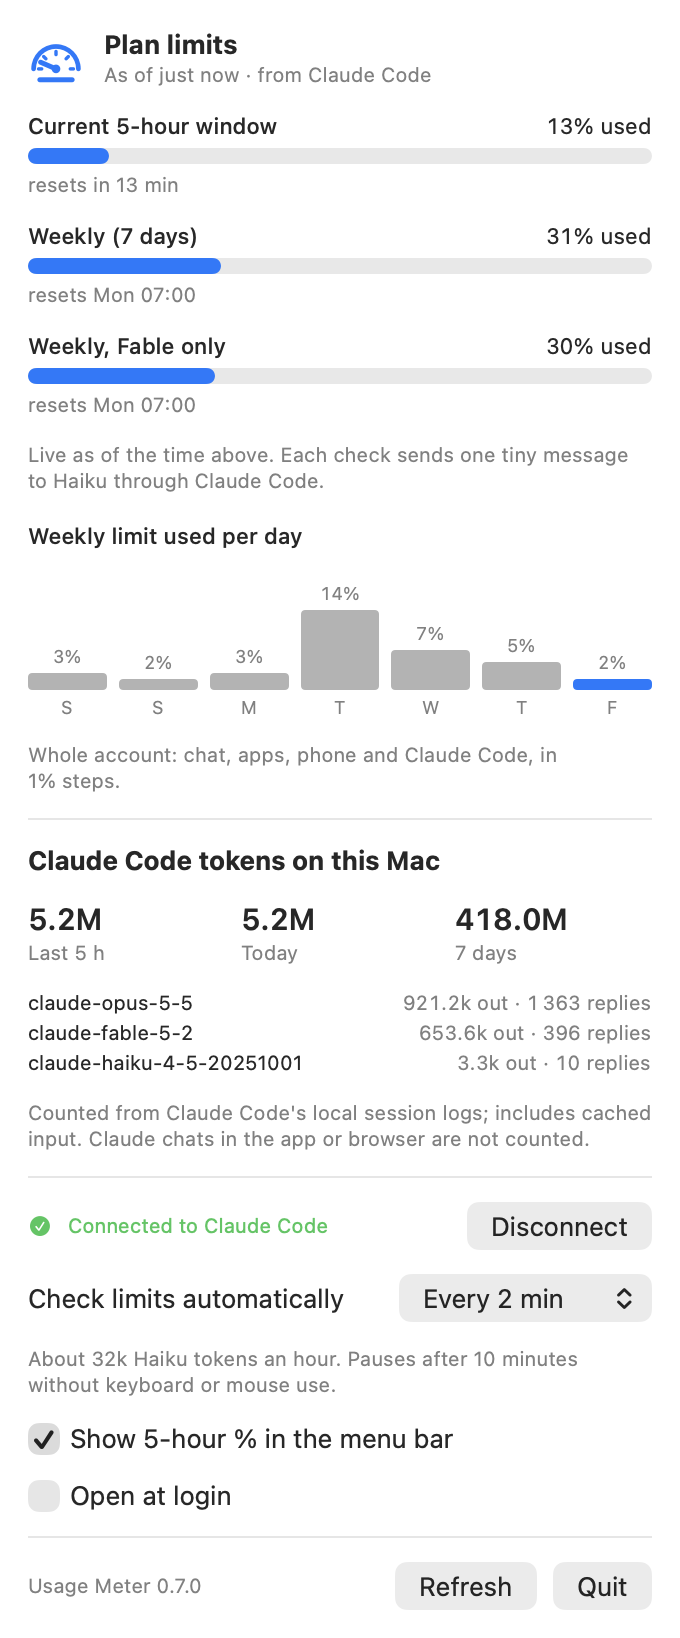
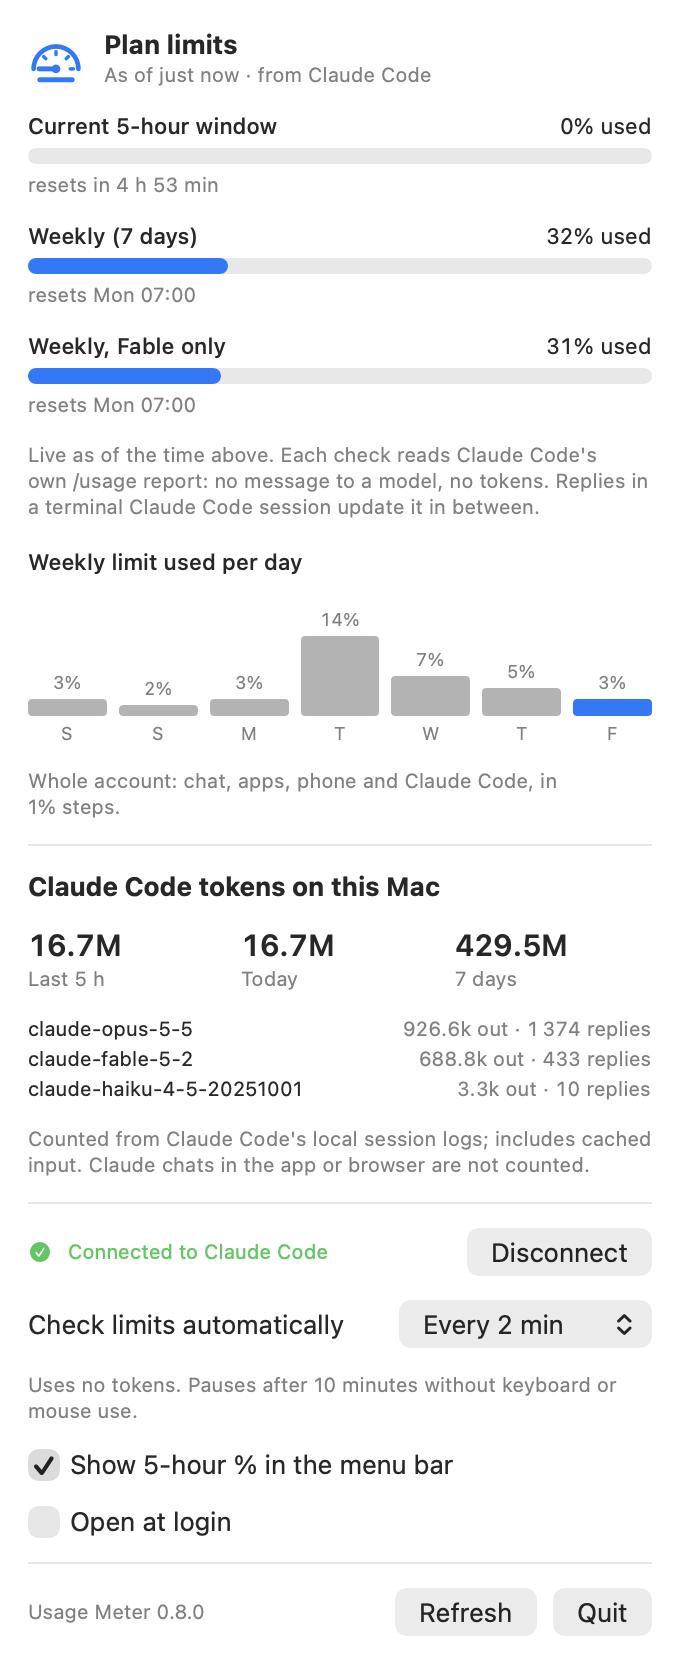
0.8.0: checks read Claude Code's /usage report instead of sending a Haiku message
Every check (Refresh and automatic) now runs the local command
`claude -p "/usage"`: no message to a model, 0 tokens, about 1.5 s.
It gives the 5-hour, weekly and model-specific figures in one call.
The status line path is unchanged, so terminal Claude Code replies still
update the numbers between checks.

diff --git a/App/Limits.swift b/App/Limits.swift
@@ -100,78 +100,75 @@ enum Limits {
         return fm.isExecutableFile(atPath: p) ? p : nil
     }
 
-    /// Sends one tiny message to the smallest model through Claude Code (your own subscription, no tools,
-    /// no MCP, no settings, nothing saved) and reads the `rate_limit_event` Claude Code prints in
-    /// stream-json mode. Costs about 1,000 tokens of your 5-hour allowance.
+    /// Asks Claude Code for its own `/usage` report (your own subscription, no settings, no MCP, nothing
+    /// saved). `/usage` is a local command: no message goes to a model and it uses no tokens.
     static func fetchLive() throws -> LimitSnapshot {
         guard let claude = claudePath() else { throw Problem("Claude Code (the claude command) was not found.") }
         let dir = FileManager.default.temporaryDirectory.appendingPathComponent("usage-meter-check")
         try? FileManager.default.createDirectory(at: dir, withIntermediateDirectories: true)
-        let prompt = "Reply with the single word ok."
-        let r = runProcess(claude, ["-p", prompt, "--model", "haiku", "--output-format", "stream-json", "--verbose",
-                                    "--tools", "", "--strict-mcp-config", "--setting-sources", "",
-                                    "--no-session-persistence", "--system-prompt", prompt],
-                           cwd: dir, timeout: 90)
-        var five: Window?, seven: Window?
-        for line in r.out.split(separator: "\n") where line.contains("rate_limit_event") {
-            guard let o = try? JSONSerialization.jsonObject(with: Data(line.utf8)) as? [String: Any],
-                  let info = o["rate_limit_info"] as? [String: Any],
-                  let wins = info["unifiedWindows"] as? [String: Any] else { continue }
-            func w(_ k: String) -> Window? {
-                guard let x = wins[k] as? [String: Any],
-                      let u = (x["utilization"] as? NSNumber)?.doubleValue,
-                      let t = (x["resetsAt"] as? NSNumber)?.doubleValue else { return nil }
-                return Window(used_percentage: u * 100, resets_at: t)
-            }
-            five = w("five_hour") ?? five
-            seven = w("seven_day") ?? seven
-        }
-        guard five != nil || seven != nil else {
-            if r.timedOut { throw Problem("Claude Code did not answer within 90 seconds.") }
-            if r.out.contains("\"is_error\":true") || r.code != 0 {
+        let r = runProcess(claude, ["-p", "/usage", "--output-format", "json", "--strict-mcp-config",
+                                    "--setting-sources", "", "--no-session-persistence"], cwd: dir, timeout: 60)
+        let o = (try? JSONSerialization.jsonObject(with: Data(r.out.utf8))) as? [String: Any]
+        let text = o?["result"] as? String ?? ""
+        // Exact reset times from the last report (the status line gives them to the second) to snap to.
+        let now = Date(), prev = load()
+        func known(_ w: Window?) -> Double? { w.flatMap { $0.resetDate > now ? $0.resets_at : nil } }
+        let u = parseUsage(text, now: now, fiveReset: known(prev?.five_hour), weekReset: known(prev?.seven_day))
+        guard o?["is_error"] as? Bool != true, u.five != nil || u.seven != nil else {
+            if r.timedOut { throw Problem("Claude Code did not answer within 60 seconds.") }
+            if o?["is_error"] as? Bool == true || r.code != 0 {
                 let hint = r.err.split(separator: "\n").last.map(String.init) ?? "exit code \(r.code)"
                 throw Problem("Claude Code failed: \(hint)")
             }
             throw Problem("Claude Code answered but reported no plan limits (API-key login, or a changed format).")
         }
-        return store(five: five, seven: seven, models: fetchModelWeeks(claude, cwd: dir, weekReset: seven?.resets_at),
-                     asOf: Date())
+        return store(five: u.five, seven: u.seven, models: u.models, asOf: now)
     }
 
-    // MARK: model-specific weekly limits (Fable) from `/usage`
+    // MARK: reading the `/usage` text
 
-    /// The `rate_limit_event` above carries no model-specific window, so these come from Claude Code's own
-    /// `/usage` command: a local command, no message to any model, 0 tokens. nil = the call failed
-    /// (keep what is stored); an empty list = it worked and the plan has no model-specific limit.
-    static func fetchModelWeeks(_ claude: String, cwd: URL, weekReset: Double?) -> [ModelWindow]? {
-        let r = runProcess(claude, ["-p", "/usage", "--output-format", "json", "--strict-mcp-config",
-                                    "--setting-sources", "", "--no-session-persistence"], cwd: cwd, timeout: 30)
-        guard let o = try? JSONSerialization.jsonObject(with: Data(r.out.utf8)) as? [String: Any],
-              o["is_error"] as? Bool != true, let text = o["result"] as? String,
-              // Only trust "no model rows" when the text is the usage report we know.
-              text.contains("Current week") else { return nil }
-        return parseModelWeeks(text, now: Date(), weekReset: weekReset)
-    }
+    struct UsageReport { var five: Window?; var seven: Window?; var models: [ModelWindow] = [] }
 
-    /// Reads lines like `Current week (Fable): 29% used · resets Nov 23 at 6:59am (Europe/Rome)`.
-    /// "all models" is the ordinary weekly limit and is skipped. The text is not a documented format.
-    /// `/usage` prints the reset a minute early (6:59 for 7:00), so a reset within two minutes of the
-    /// weekly one is taken to be the weekly one. A line with no readable reset uses the weekly reset;
-    /// with neither, the line is dropped rather than given a made-up time.
-    static func parseModelWeeks(_ text: String, now: Date, weekReset: Double?) -> [ModelWindow] {
+    /// Reads these lines (the text is not a documented format):
+    ///   `Current session: 11% used · resets Nov 20 at 10:49am (Europe/Rome)`   → 5-hour window
+    ///   `Current week (all models): 31% used · resets Nov 23 at 6:59am (…)`     → weekly limit
+    ///   `Current week (Fable): 29% used · resets Nov 23 at 6:59am (…)`          → a model-specific weekly limit
+    /// `/usage` prints a reset only to the minute and sometimes a minute early (6:59 for 7:00), so a known exact
+    /// reset (`fiveReset`, `weekReset`, from an earlier report) within two minutes of the printed one is used
+    /// instead. A line with no readable reset uses the known one; a model line uses the weekly one. With
+    /// nothing to go on the line is dropped rather than given a made-up time, except a session at 0 %,
+    /// which is a window that is not running.
+    static func parseUsage(_ text: String, now: Date, fiveReset: Double?, weekReset: Double?) -> UsageReport {
         let line = try! NSRegularExpression(
-            pattern: #"^\s*Current week \(([^)]+)\):\s*(\d+(?:\.\d+)?)\s*% used(?:\s*·\s*resets\s+(.+?))?\s*$"#,
+            pattern: #"^\s*Current (session|week)(?: \(([^)]+)\))?:\s*(\d+(?:\.\d+)?)\s*% used(?:\s*·\s*resets\s+(.+?))?\s*$"#,
             options: [.anchorsMatchLines])
         let ns = text as NSString
-        var out: [ModelWindow] = []
+        func resolve(_ printed: Double?, _ known: Double?) -> Double? {
+            guard let p = printed else { return known }
+            if let k = known, abs(p - k) <= 120 { return k }
+            return p
+        }
+        var out = UsageReport()
+        var modelLines: [(name: String, pct: Double, reset: Double?)] = []
         for m in line.matches(in: text, range: NSRange(location: 0, length: ns.length)) {
-            let name = ns.substring(with: m.range(at: 1)).trimmingCharacters(in: .whitespaces)
-            guard name.lowercased() != "all models", let pct = Double(ns.substring(with: m.range(at: 2))) else { continue }
-            var reset = m.range(at: 3).location == NSNotFound ? nil
-                : parseReset(ns.substring(with: m.range(at: 3)), now: now)?.timeIntervalSince1970
-            if let w = weekReset, reset == nil || abs(reset! - w) <= 120 { reset = w }
-            guard let r = reset else { continue }
-            out.append(ModelWindow(name: name, used_percentage: pct, resets_at: r, as_of: now.timeIntervalSince1970))
+            func g(_ i: Int) -> String? { m.range(at: i).location == NSNotFound ? nil : ns.substring(with: m.range(at: i)) }
+            guard let pct = g(3).flatMap({ Double($0) }) else { continue }
+            let printed = g(4).flatMap { parseReset($0, now: now)?.timeIntervalSince1970 }
+            let name = g(2)?.trimmingCharacters(in: .whitespaces)
+            if g(1) == "session" {
+                if let r = resolve(printed, fiveReset) ?? (pct == 0 ? now.timeIntervalSince1970 : nil) {
+                    out.five = Window(used_percentage: pct, resets_at: r)
+                }
+            } else if name == nil || name!.lowercased() == "all models" {
+                if let r = resolve(printed, weekReset) { out.seven = Window(used_percentage: pct, resets_at: r) }
+            } else {
+                modelLines.append((name!, pct, printed))
+            }
+        }
+        let week = out.seven?.resets_at ?? weekReset
+        for l in modelLines {
+            guard let r = resolve(l.reset, week) else { continue }
+            out.models.append(ModelWindow(name: l.name, used_percentage: l.pct, resets_at: r, as_of: now.timeIntervalSince1970))
         }
         return out
     }

diff --git a/tests/main.swift b/tests/main.swift
@@ -26,35 +26,57 @@ What's contributing to your usage?
 let now = at(2026, 11, 20, 10, 33)
 let weekReset = at(2026, 11, 23, 7, 0).timeIntervalSince1970
 
-// 1. The real text: one model row, Fable 29 %, reset snapped to the weekly reset one minute later.
-var m = Limits.parseModelWeeks(real, now: now, weekReset: weekReset)
+// 1. The real text: session, week and one model row. Known exact resets (from an earlier status line
+//    report) one minute later replace the printed ones; `/usage` printed 10:49 for 10:50 and 6:59 for 7:00 here.
+let fiveReset = at(2026, 11, 20, 10, 50).timeIntervalSince1970
+var u = Limits.parseUsage(real, now: now, fiveReset: fiveReset, weekReset: weekReset)
+check(u.five?.used_percentage == 11, "session 11 %, got \(u.five?.used_percentage ?? -1)")
+check(u.five?.resets_at == fiveReset, "session reset snapped, got \(u.five?.resets_at ?? -1)")
+check(u.seven?.used_percentage == 31, "week 31 %, got \(u.seven?.used_percentage ?? -1)")
+check(u.seven?.resets_at == weekReset, "week reset snapped, got \(u.seven?.resets_at ?? -1)")
+var m = u.models
 check(m.count == 1, "one model-specific row, got \(m.count)")
 check(m.first?.name == "Fable", "name Fable, got \(m.first?.name ?? "nil")")
 check(m.first?.used_percentage == 29, "29 %, got \(m.first?.used_percentage ?? -1)")
-check(m.first?.resets_at == weekReset, "reset snapped to weekly reset, got \(m.first?.resets_at ?? -1)")
+check(m.first?.resets_at == weekReset, "model reset = week reset, got \(m.first?.resets_at ?? -1)")
 
-// 2. Without a weekly reset to snap to, the reset is read from the text, in the zone it names.
-m = Limits.parseModelWeeks(real, now: now, weekReset: nil)
-check(m.first?.resets_at == at(2026, 11, 23, 6, 59).timeIntervalSince1970, "reset parsed as Nov 23 06:59 Rome, got \(m.first?.resets_at ?? -1)")
+// 2. Nothing known to snap to: resets are read from the text, in the zone it names.
+u = Limits.parseUsage(real, now: now, fiveReset: nil, weekReset: nil)
+check(u.five?.resets_at == at(2026, 11, 20, 10, 49).timeIntervalSince1970, "session reset Nov 20 10:49 Rome, got \(u.five?.resets_at ?? -1)")
+check(u.seven?.resets_at == at(2026, 11, 23, 6, 59).timeIntervalSince1970, "week reset Nov 23 06:59 Rome, got \(u.seven?.resets_at ?? -1)")
+check(u.models.first?.resets_at == at(2026, 11, 23, 6, 59).timeIntervalSince1970, "model reset Nov 23 06:59 Rome")
+// A known reset that is far from the printed one (an old window) is not used.
+u = Limits.parseUsage(real, now: now, fiveReset: fiveReset - 5 * 3600, weekReset: weekReset - 7 * 86400)
+check(u.five?.resets_at == at(2026, 11, 20, 10, 49).timeIntervalSince1970, "old session reset ignored")
+check(u.seven?.resets_at == at(2026, 11, 23, 6, 59).timeIntervalSince1970, "old week reset ignored")
 
-// 3. A plan without a model-specific limit: no rows (the panel then hides the row).
+// 3. A plan without a model-specific limit: no model rows (the panel then hides the row). "Current week:" also counts.
 let plain = """
 Current session: 11% used · resets Nov 20 at 10:49am (Europe/Rome)
-Current week (all models): 31% used · resets Nov 23 at 6:59am (Europe/Rome)
+Current week: 31% used · resets Nov 23 at 6:59am (Europe/Rome)
 """
-check(Limits.parseModelWeeks(plain, now: now, weekReset: weekReset).isEmpty, "no model row on a plan without one")
-check(Limits.parseModelWeeks("", now: now, weekReset: weekReset).isEmpty, "empty text gives no rows")
+u = Limits.parseUsage(plain, now: now, fiveReset: nil, weekReset: nil)
+check(u.models.isEmpty, "no model row on a plan without one")
+check(u.five?.used_percentage == 11 && u.seven?.used_percentage == 31, "session and week still read")
+u = Limits.parseUsage("", now: now, fiveReset: nil, weekReset: nil)
+check(u.five == nil && u.seven == nil && u.models.isEmpty, "empty text gives nothing")
 
 // 4. A reset that lands in January when read in December belongs to next year.
 let dec = "Current week (Fable): 4% used · resets Jan 2 at 7am (Europe/Rome)"
-m = Limits.parseModelWeeks(dec, now: at(2026, 12, 29, 12, 0), weekReset: nil)
+m = Limits.parseUsage(dec, now: at(2026, 12, 29, 12, 0), fiveReset: nil, weekReset: nil).models
 check(m.first?.resets_at == at(2027, 1, 2, 7, 0).timeIntervalSince1970, "year rolls over, got \(m.first?.resets_at ?? -1)")
 check(m.first?.used_percentage == 4, "4 %")
 
-// 5. No reset in the line: fall back to the weekly reset; with neither, the row is dropped (no made-up time).
+// 5. No reset in a line. Model row: falls back to the weekly reset, dropped with neither (no made-up time).
 let bare = "Current week (Fable): 0% used"
-check(Limits.parseModelWeeks(bare, now: now, weekReset: weekReset).first?.resets_at == weekReset, "falls back to weekly reset")
-check(Limits.parseModelWeeks(bare, now: now, weekReset: nil).isEmpty, "dropped without any reset time")
+check(Limits.parseUsage(bare, now: now, fiveReset: nil, weekReset: weekReset).models.first?.resets_at == weekReset, "falls back to weekly reset")
+check(Limits.parseUsage(bare, now: now, fiveReset: nil, weekReset: nil).models.isEmpty, "dropped without any reset time")
+//    Session at 0 % with no reset (no window running): shown as 0 %, already reset.
+u = Limits.parseUsage("Current session: 0% used", now: now, fiveReset: nil, weekReset: nil)
+check(u.five?.used_percentage == 0 && u.five?.resets_at == now.timeIntervalSince1970, "idle session = 0 %, reset now")
+//    A used session with no reset and nothing known: not reported rather than guessed.
+check(Limits.parseUsage("Current session: 40% used", now: now, fiveReset: nil, weekReset: nil).five == nil, "no guess for a used session")
+check(Limits.parseUsage("Current session: 40% used", now: now, fiveReset: fiveReset, weekReset: nil).five?.resets_at == fiveReset, "known reset used when the line has none")
 
 // 6. Storing: a report without model rows (status line) keeps the stored ones; an empty report clears them.
 let home = FileManager.default.temporaryDirectory.appendingPathComponent("um-test-\(UUID().uuidString)")

diff --git a/App/UsageMeter.swift b/App/UsageMeter.swift
@@ -90,7 +90,7 @@ final class Model: ObservableObject {
         if age >= Double(autoMinutes * 60) - 15 { checkLive() }
     }
 
-    /// Refresh button: re-read everything, then ask Claude Code for live limits (one tiny Haiku message).
+    /// Refresh button: re-read everything, then ask Claude Code for live limits (its `/usage` report, no tokens).
     func checkLive() {
         guard !checking else { return }
         checking = true
@@ -218,7 +218,7 @@ struct Panel: View {
                 Text(m.stale
                      ? (m.autoPausedForIdle ? "Out of date while you were away; it updates once you use the Mac again, or click Refresh."
                                             : "Out of date: use since then (desktop app, browser, phone) is not included. Click Refresh to check now.")
-                     : "Live as of the time above. Each check sends one tiny message to Haiku through Claude Code.")
+                     : "Live as of the time above. Each check reads Claude Code's own /usage report: no message to a model, no tokens. Replies in a terminal Claude Code session update it in between.")
                     .font(.caption).foregroundStyle(m.stale ? Color.orange : Color.secondary)
                     .fixedSize(horizontal: false, vertical: true)
                 Text("Weekly limit used per day").font(.subheadline.weight(.medium)).padding(.top, 2)
@@ -229,7 +229,7 @@ struct Panel: View {
                      + (m.daily.contains { $0.pct == nil } ? " – = before this week, no data." : ""))
                     .font(.caption).foregroundStyle(.secondary).fixedSize(horizontal: false, vertical: true)
             } else {
-                Text("Click Refresh to check your 5-hour and weekly limits now (sends one tiny message to Haiku through Claude Code).")
+                Text("Click Refresh to check your 5-hour and weekly limits now (reads Claude Code's own /usage report; uses no tokens).")
                     .font(.caption).foregroundStyle(.secondary).fixedSize(horizontal: false, vertical: true)
             }
 
@@ -289,7 +289,7 @@ struct Panel: View {
             }
             Text(m.autoMinutes == 0
                  ? "Only when you click Refresh."
-                 : "About \(1_070 * 60 / m.autoMinutes / 1000)k Haiku tokens an hour. Pauses after 10 minutes without keyboard or mouse use\(m.autoPausedForIdle ? " (paused now)" : "").")
+                 : "Uses no tokens. Pauses after 10 minutes without keyboard or mouse use\(m.autoPausedForIdle ? " (paused now)" : "").")
                 .font(.caption).foregroundStyle(.secondary).fixedSize(horizontal: false, vertical: true)
             Toggle("Show 5-hour % in the menu bar", isOn: $m.showInBar)
             if #available(macOS 13.0, *) {
@@ -303,7 +303,7 @@ struct Panel: View {
                 if m.checking { ProgressView().controlSize(.small) }
                 Button(m.checking ? "Checking…" : "Refresh") { m.checkLive() }
                     .disabled(m.checking)
-                    .help("Re-reads the logs and asks Claude Code for your live limits (about 1,000 Haiku tokens).")
+                    .help("Re-reads the logs and asks Claude Code for your live limits (no tokens).")
                 Button("Quit") { NSApplication.shared.terminate(nil) }
             }
         }

diff --git a/README.md b/README.md
@@ -10,8 +10,8 @@ It uses only what Claude Code itself provides on your Mac: no claude.ai cookies,
 
 | Section | Source | Notes |
 |---|---|---|
-| **Plan limits**: 5-hour and weekly % used, reset times | 1. **Refresh**: one tiny message to Haiku through your own Claude Code (`claude -p … --output-format stream-json`), which prints a `rate_limit_event`. 2. Claude Code's documented status line field `rate_limits` ([docs](https://code.claude.com/docs/en/statusline)) after each reply in a terminal session | Pro, Max and Ultra plans. Numbers are dated by when they were reported and greyed out after 20 minutes. A Refresh costs about 1,000 Haiku tokens of your 5-hour allowance. |
-| **Weekly, Fable only** (or another model the plan limits separately): % used, reset time | Read with each check from Claude Code's own `/usage` command (`claude -p "/usage" --output-format json`): a local command, no message to a model, 0 tokens | The row is hidden on plans without a model-specific limit. `/usage` prints text, not a documented format, so this row can break after a Claude Code update; the other rows do not depend on it. |
+| **Plan limits**: 5-hour and weekly % used, reset times | 1. **Refresh** and the automatic checks: Claude Code's own `/usage` command, run headless (`claude -p "/usage" --output-format json`). It is a local command: no message to a model, 0 tokens. 2. Claude Code's documented status line field `rate_limits` ([docs](https://code.claude.com/docs/en/statusline)) after each reply in a terminal session, so the numbers also move while you work | Pro, Max and Ultra plans. Numbers are dated by when they were reported and greyed out after 20 minutes. |
+| **Weekly, Fable only** (or another model the plan limits separately): % used, reset time | The same `/usage` report | The row is hidden on plans without a model-specific limit. The status line does not carry this figure, so it only changes at a check. |
 | **Weekly limit used per day** (7-day chart, whole account) | Each limit reading is saved to `~/Library/Application Support/Usage Meter/history.json`; a day's bar is how much the weekly % rose that day | 1% steps. Days of the current week before the first reading are estimated (≈): the week's % at that point, split by Claude Code activity on this Mac (API price ratios). Earlier weeks show –. Use while the Mac is off lands on the next day it checks. |
 | **Claude Code tokens**: last 5 h, today, 7 days, per model | Claude Code's session logs in `~/.claude/projects` | Includes cached input, so totals are large. Anthropic calls the log format internal, so this part can break after a Claude Code update. |
 
@@ -35,9 +35,8 @@ This builds a universal app, copies it to `/Applications` and opens it. Then, in
 
 ## How it works
 
-- **Refresh** runs `claude -p "Reply with the single word ok." --model haiku --output-format stream-json --verbose --tools "" --strict-mcp-config --setting-sources "" --no-session-persistence` (no tools, no MCP servers, no settings, nothing saved) and reads `rate_limit_event.rate_limit_info.unifiedWindows` (`utilization` 0–1, `resetsAt`). This event is part of Claude Code's output but not documented, so it may change.
+- **Refresh** and each automatic check run `claude -p "/usage" --output-format json --strict-mcp-config --setting-sources "" --no-session-persistence` (no MCP servers, no settings, nothing saved; about 1.5 s) and read these lines from its `result` text: `Current session: 11% used · resets Nov 20 at 10:49am (Europe/Rome)`, `Current week (all models): 31% used · …`, `Current week (Fable): 29% used · …`. The text is not a documented format, so it may change. `/usage` prints resets to the minute and sometimes a minute early (6:59am one time, 7am the next), so when an exact reset time is already known (from the status line) and is within two minutes, that one is kept.
 
-- Each check then runs `claude -p "/usage" --output-format json --strict-mcp-config --setting-sources "" --no-session-persistence` and reads lines such as `Current week (Fable): 29% used · resets Nov 23 at 6:59am (Europe/Rome)` from its `result` text. The `rate_limit_event` has no model-specific window, which is why this second call exists. `/usage` shows the reset a minute early, so a reset within two minutes of the weekly one is shown as the weekly one.
 - `UsageMeter --statusline` is the status line command Claude Code runs. It reads Claude Code's JSON from stdin, saves the limits to `~/Library/Application Support/Usage Meter/limits.json` and prints a short line (`Opus · 5h 42% · 7d 71%`). The time of the session's last reply, from its transcript, dates the numbers, so an idle session cannot overwrite fresher ones.
 - The app reads that file and the session logs every 30 seconds (only changed log files are re-read).
 
@@ -46,7 +45,8 @@ Other options: `--fetch-limits` (the Refresh check from Terminal), `--background
 ## Limits of this approach
 
 - Without a Refresh, the plan figures are only as fresh as your last terminal Claude Code reply.
-- Each check uses about 1,070 Haiku tokens (2 in, 4 out, ~1,060 for Claude Code's minimal setup). Automatic checks (Off / 2 / 5 / 15 / 30 min, default 5) use about 12k tokens an hour at 5 min and pause after 10 minutes without keyboard or mouse use.
+- Checks use no tokens (up to 0.7.0 each one sent a tiny Haiku message, about 1,070 tokens). Automatic checks (Off / 2 / 5 / 15 / 30 min, default 5) pause after 10 minutes without keyboard or mouse use.
+- `/usage` reports whole percents as text. If Claude Code changes that text, checks fail with "reported no plan limits" until the parser is updated; the status line path keeps working.
 - Needs Claude Code installed and signed in with a Claude plan; with an API key there are no plan limits to show.
 
 ## Uninstall
